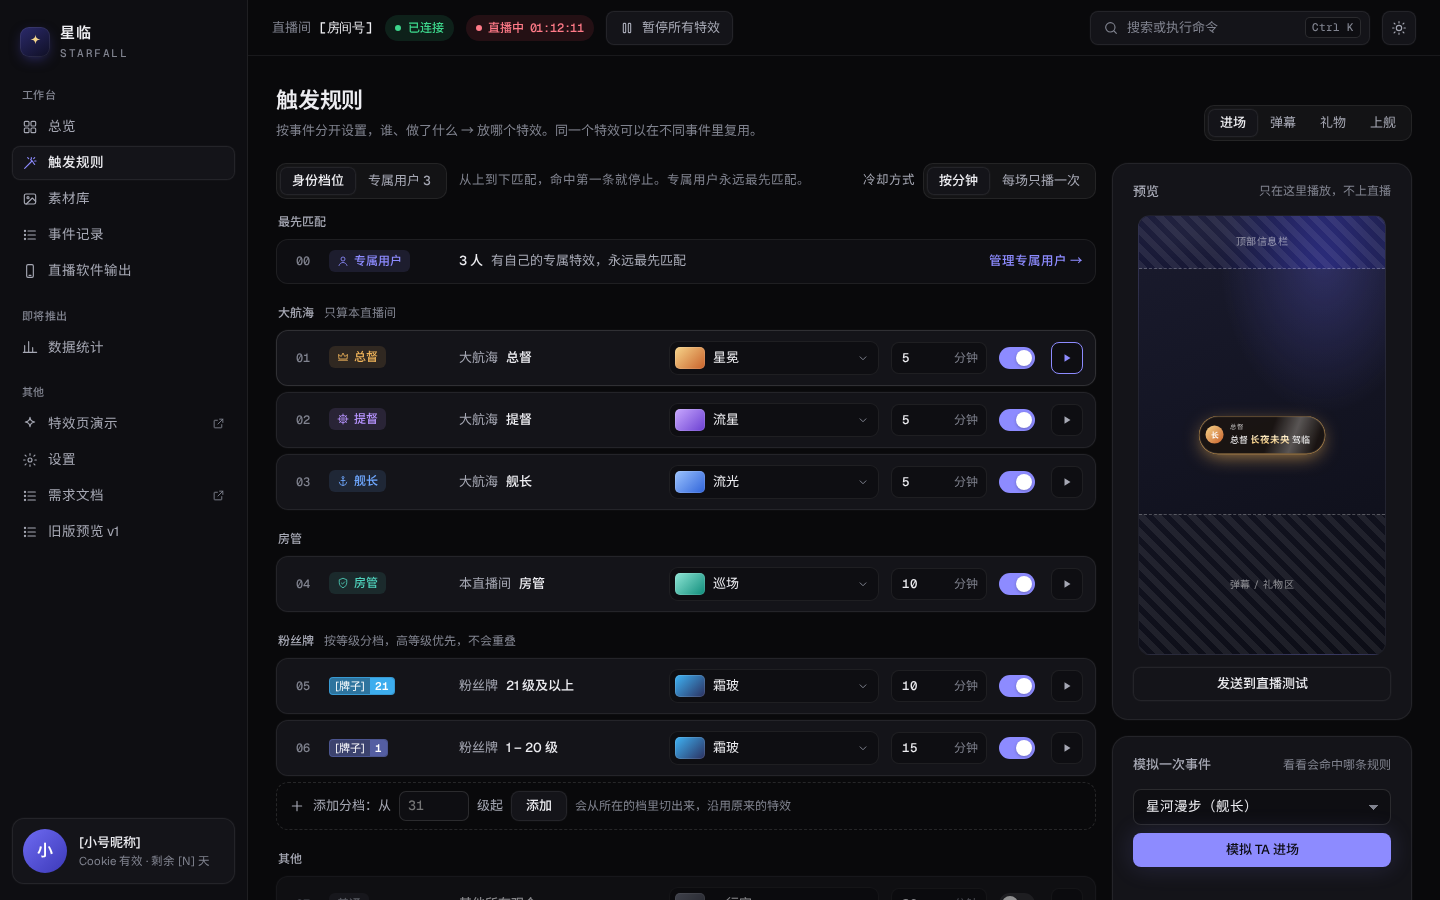
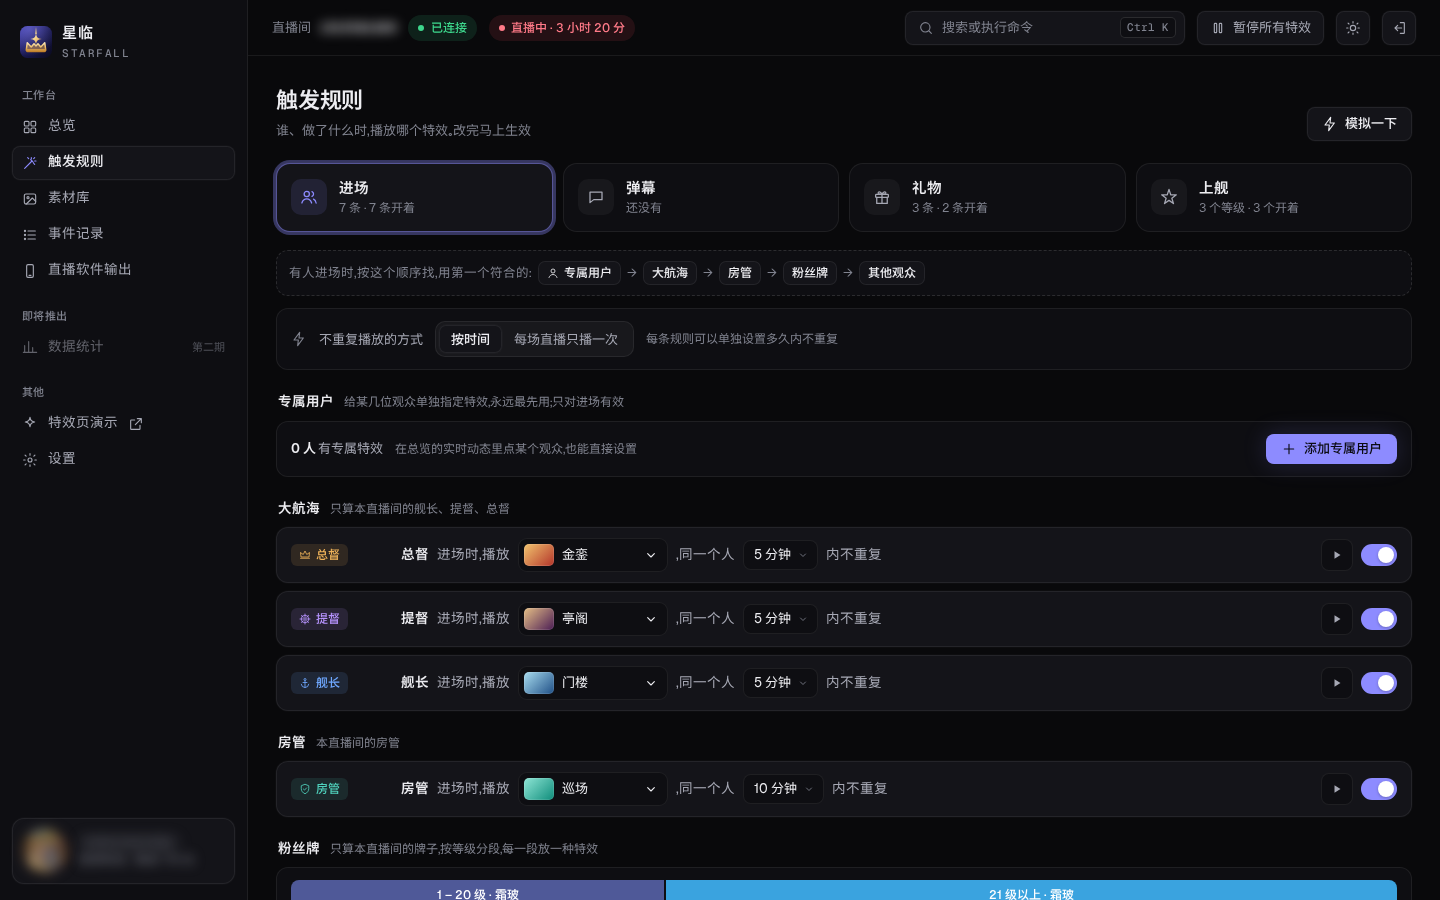
README 重写为正式版说明；截图换成真实页面（账号、主播、房间号、观众信息已模糊处理）

diff --git a/README.md b/README.md
@@ -1,161 +1,267 @@
 <div align="center">
 
-# ✦ 星临 Starfall
+<img src="design/brand/logo.svg" alt="星临" width="96" height="96">
 
-**B 站直播间互动特效工具**
+# 星临 Starfall
 
-观众进场、发弹幕、送礼物、上舰时，按你的规则在直播画面上播放动画、欢迎语和音效。
+**B 站直播间互动特效系统**
 
-![License](https://img.shields.io/badge/license-GPL--3.0-5451D6)
-![Status](https://img.shields.io/badge/%E7%8A%B6%E6%80%81-%E8%AE%BE%E8%AE%A1%E9%98%B6%E6%AE%B5-8D8BFF)
-![Platform](https://img.shields.io/badge/%E7%9B%B4%E6%92%AD%E8%BD%AF%E4%BB%B6-B%E7%AB%99%E7%9B%B4%E6%92%AD%E5%A7%AC%20%7C%20OBS-2F6FEB)
-![Canvas](https://img.shields.io/badge/%E7%94%BB%E5%B8%83-%E7%AB%96%E5%B1%8F%201080%C3%971920-0E8C7A)
+观众进场、发弹幕、送礼物、上舰时，按你设定的规则，在直播画面上播放专属的动画、欢迎语和音效。
+
+[![Version](https://img.shields.io/badge/version-1.0.0-5451D6)](CHANGELOG.md)
+[![License](https://img.shields.io/badge/license-GPL--3.0-2F6FEB)](LICENSE)
+[![Node.js](https://img.shields.io/badge/Node.js-24-3C873A)](https://nodejs.org/)
+[![直播软件](https://img.shields.io/badge/%E7%9B%B4%E6%92%AD%E8%BD%AF%E4%BB%B6-B%E7%AB%99%E7%9B%B4%E6%92%AD%E5%A7%AC%20%7C%20OBS-0E8C7A)](#使用指南)
 
 </div>
 
 <p align="center">
-  <img src="docs/images/overview-dark.png" alt="管理后台 · 总览（暗色）" width="100%">
+  <img src="docs/images/overview-dark.png" alt="管理后台 · 总览" width="100%">
 </p>
 
-> **当前阶段**：P0 技术验证已完成，正在进行 **P1 进场特效最小可用**。**还没有可用的正式版本。**
-> 下面的截图来自界面设计预览，数据为示例。
+<p align="center"><sub>截图中的账号、主播、房间号、直播标题和观众信息均已做模糊处理。</sub></p>
 
 ---
 
-## 它能做什么
+## 目录
 
-| 事件 | 可以这样设置 |
+- [简介](#简介)
+- [功能特性](#功能特性)
+- [界面预览](#界面预览)
+- [工作原理](#工作原理)
+- [快速开始](#快速开始)
+- [配置](#配置)
+- [使用指南](#使用指南)
+- [数据、备份与安全](#数据备份与安全)
+- [开发](#开发)
+- [路线图](#路线图)
+- [声明](#声明)
+- [开源协议](#开源协议)
+
+---
+
+## 简介
+
+星临是一套部署在服务器上的直播特效系统，由三部分组成：
+
+| 组成 | 作用 |
 |---|---|
-| **进场** | 总督、提督、舰长、房管、粉丝牌等级分档各放不同的素材；给指定的人设**专属素材**（可设有效期，比如生日当天）；支持"每场直播每人只播一次" |
-| **弹幕** | 有人发"生日快乐"就放烟花；可限定发送人（比如只认粉丝牌 ≥ 10 级），带全局冷却和每人冷却，防刷屏 |
-| **礼物** | 指定礼物对应指定素材；按单次价值（数量 × 单价）分档；连击自动合并，显示 ×N |
-| **上舰** | 开通、续费分别设置，欢迎语里显示月数 |
+| **星临服务** | 连接 B 站直播间，实时接收进场、弹幕、礼物、上舰消息，按规则决定播放什么 |
+| **特效页** | 作为浏览器源放进 B 站直播姬或 OBS，在直播画面上播放特效 |
+| **管理后台** | 在浏览器里设置规则、管理素材、查看实时动态和播放队列，电脑和手机都能用 |
 
-- **上传即用**：把透明 WebM、GIF、PNG、SVGA、Lottie 拖进素材库，它就是一个可以直接选用的特效。
-- **竖屏优先**：默认 1080×1920，自动避开 B站 App 的顶部信息栏和底部弹幕区。
-- **直播姬和 OBS 都支持**：作为浏览器源放进直播软件即可，附带兼容性自检页和声音测试页。
-- **直播时放心用**：一键暂停所有特效（`Ctrl + Shift + P`）、清空队列；未开播时默认不播；黑名单；每一次触发都有记录，能查到"为什么没播"。
-- **手机也能管**：管理后台适配手机，直播中可以随时调整。
+星临面向以竖屏直播为主的主播，默认画布为 1080×1920，并自动避开 B 站 App 的顶部信息栏和底部弹幕区；同时支持横屏画布。
 
----
+## 功能特性
+
+### 触发规则
+
+- **进场**：按身份区分——专属用户 → 大航海（总督 / 提督 / 舰长）→ 房管 → 粉丝牌（按等级分段）→ 其他观众，使用第一条符合的规则；可设置同一观众多久内不重复，或每场直播只播一次。
+- **弹幕**：关键词触发（包含 / 完全一致），可限定发送人（所有人、本房间粉丝牌、大航海、房管），分别设置全场与每人的冷却时间。
+- **礼物**：指定礼物优先匹配（按礼物编号区分同名礼物），其余按单次总价值分段；免费礼物不触发；连击自动合并为一次，并显示总数量。
+- **上舰**：开通与续费可共用或分别设置特效；同一次上舰只播放一次；欢迎语可显示「上舰 / 续费」与月数。
+
+### 播放控制
+
+- 统一播放队列，优先级为 **上舰 → 礼物 → 进场 → 弹幕**；上舰和 100 元以上的礼物可插队。
+- 队列上限可调，可跳过当前、移出单条或清空；**紧急暂停**（`Ctrl + Shift + P`）立即停止所有特效。
+- 黑名单；主播本人与连接用的账号不触发；未开播时默认不播放，也可开启排练模式。
+
+### 特效与素材
+
+- 内置素材开箱即用，包括大航海东方宫廷系列「门楼 · 亭阁 · 金銮」。
+- 支持上传透明 WebM、MP4、PNG / GIF / WebP、SVGA、Lottie，并可搭配音效；自动检测视频的透明通道与时长。
+- 欢迎语支持变量（昵称、身份、粉丝牌、礼物、数量、价值、月数等），可按事件分别撰写。
+- 支持多个输出（例如竖屏直播与横屏录播各一份地址），附带兼容性自检页、声音测试页和演示页。
+
+### 管理后台
+
+- **总览**：正在监控的直播间（封面、主播、标题、分区、开播时间与时长）；本场 / 今天的进场人数、触发次数与身份构成；B 站看过人数、高能榜、点赞与粉丝数；实时动态与播放队列。
+- **触发规则**：每条规则以一句话呈现，冷却时间点选即可；粉丝牌等级条、礼物价值刻度条一目了然；预览小窗使用真实特效页播放；「模拟一下」可验证会命中哪条规则。
+- **事件记录**：每个事件命中了哪条规则、是否播放、未播放的原因。
+- 新手引导、命令面板（`Ctrl + K`）、亮色 / 暗色主题、手机布局；配置导出 / 导入，每日自动备份。
+- 数据按直播间分别统计，切换直播间后自动显示对应的数据。
 
 ## 界面预览
 
 <table>
   <tr>
-    <td width="50%"><img src="docs/images/rules.png" alt="触发规则"><br><sub><b>触发规则</b>：按事件分标签，身份档位固定排序、分档不重叠；右侧可以模拟一次事件，看会命中哪条规则</sub></td>
-    <td width="50%"><img src="docs/images/assets.png" alt="素材库"><br><sub><b>素材库</b>：上传的文件就是素材，悬停预览；没有透明通道的文件会提醒</sub></td>
+    <td width="50%"><img src="docs/images/rules.png" alt="触发规则 · 进场"><br><sub><b>触发规则 · 进场</b>：每条规则一句话，匹配顺序清晰可见</sub></td>
+    <td width="50%"><img src="docs/images/rules-gift.png" alt="触发规则 · 礼物"><br><sub><b>触发规则 · 礼物</b>：指定礼物与价值刻度条</sub></td>
   </tr>
   <tr>
-    <td width="50%"><img src="docs/images/editor.png" alt="素材设置"><br><sub><b>素材设置</b>：画面、欢迎语（可按事件分别写）、音效、位置与时长</sub></td>
-    <td width="50%"><img src="docs/images/overview-light.png" alt="亮色模式"><br><sub><b>亮色模式</b>：默认跟随系统，也可以手动切换</sub></td>
+    <td width="50%"><img src="docs/images/overview-light.png" alt="亮色主题"><br><sub><b>亮色主题</b>：默认跟随系统，可手动切换</sub></td>
+    <td width="50%"><img src="docs/images/output.png" alt="直播软件输出"><br><sub><b>直播软件输出</b>：画布方向、分辨率、安全区与实时预览</sub></td>
+  </tr>
+  <tr>
+    <td width="50%"><img src="docs/images/login.jpg" alt="登录页"><br><sub><b>登录页</b></sub></td>
+    <td width="50%" align="center"><img src="docs/images/mobile.png" alt="手机布局" width="48%"><br><sub><b>手机布局</b>：直播中随时暂停特效、调整规则</sub></td>
   </tr>
 </table>
 
 <p align="center">
-  <img src="docs/images/overlay-captain.png" alt="舰长进场特效" width="32%">
-  &nbsp;
-  <img src="docs/images/overlay-governor.png" alt="总督进场特效" width="32%">
+  <img src="docs/images/effect-cap.png" alt="舰长 · 门楼" width="32%">
+  <img src="docs/images/effect-adm.png" alt="提督 · 亭阁" width="32%">
+  <img src="docs/images/effect-gov.png" alt="总督 · 金銮" width="32%">
   <br>
-  <sub>竖屏特效页：舰长进场（左）、总督进场（右）。斜线区域是安全区，只在预览中显示</sub>
+  <sub>大航海进场特效：舰长 · 门楼（4 秒）、提督 · 亭阁（6 秒）、总督 · 金銮（8 秒）</sub>
 </p>
-
----
 
 ## 工作原理
 
 ```mermaid
 flowchart LR
-    A[B站直播间] -- WebSocket --> B[星临服务]
+    A[B 站直播间] -- 弹幕连接 --> B[星临服务]
     B --> C{触发规则}
     C --> D[播放队列]
-    D -- 实时推送 --> E[特效页<br/>浏览器源]
-    E --> F[B站直播姬 / OBS]
+    D -- WebSocket --> E[特效页<br/>浏览器源]
+    E --> F[B 站直播姬 / OBS]
     F -- 推流 --> G[观众]
-    H[管理后台] -. 配置规则、素材 .-> B
+    H[管理后台] -. 规则、素材、控制 .-> B
 ```
 
-1. 星临用一个 B 站**小号**连接你的直播间，实时接收进场、弹幕、礼物、上舰消息。
-2. 按你设定的规则判断要不要播、播哪个素材，放进播放队列（上舰 > 礼物 > 进场 > 弹幕）。
-3. 特效页作为**浏览器源**放在直播软件的最上层，收到指令后播放动画和音效。
+1. 星临服务使用一个 B 站账号（建议使用小号）连接直播间，接收进场、弹幕、礼物、上舰等消息；默认只在开播时连接。
+2. 每个事件按规则判断是否播放、播放哪个特效，并记录结果；需要播放的进入统一的播放队列。
+3. 特效页作为浏览器源置于直播软件的最上层，由服务端统一调度，逐个播放动画与音效。
 
-先以网页服务的形式运行在服务器上；之后会封装成 **Windows 客户端**，界面完全一致，直接在主播电脑上运行。
+## 快速开始
 
----
+### 环境要求
 
-## 开发进度
-
-- [x] 需求整理（[需求文档](docs/requirements.md)）
-- [x] 仓库与开发约定（[分支、提交与回退](docs/development.md)）
-- [x] 界面设计预览
-- [x] OBS 兼容性与声音实测
-- [x] 方案设计（[技术栈、架构、数据模型、接口](docs/architecture.md)）
-- [x] **P0** 技术验证（[验证报告](docs/p0-report.md)）
-- [ ] **P1 · v0.1.0** 进场特效最小可用
-- [ ] **P2 · v0.2.0** 弹幕、礼物、上舰
-- [ ] **P3 · v0.3.0** 后台完整体验
-- [ ] **P4 · v1.0.0** 打磨，第一期正式版
-- [ ] Windows 客户端
-- [ ] 第二期：SC / 关注 / 点赞触发、礼物统计、直播数据、观众档案
-
----
-
-## 技术栈（规划）
-
-| 部分 | 选型 |
+| 项目 | 要求 |
 |---|---|
-| 语言与结构 | TypeScript 6，pnpm monorepo；服务端由 Node 24 直接运行 TS |
-| 后端 | Node.js 24、Fastify、WebSocket、SQLite（better-sqlite3 + Drizzle） |
-| 管理后台 | Vue 3、Vite、Pinia、Naive UI |
-| 特效页 | Vite、GSAP、Lottie、PixiJS、透明 WebM，SVGA 可选 |
-| Windows 版 | Electron + electron-builder |
+| 操作系统 | Linux 服务器（已在 Debian 12 上验证） |
+| Node.js | 24 或更高 |
+| pnpm | 通过 Corepack 启用，版本由 `package.json` 指定 |
+| ffmpeg | 推荐安装，用于检测上传视频的透明通道和时长 |
+| 内存 | 512 MB 以上 |
+| 网络 | 能访问 B 站；开放一个端口供直播软件和浏览器访问（默认 17520） |
 
----
+### 安装与启动
 
-## 目录结构
-
+```bash
+git clone https://github.com/chrismaxluo/starfall.git /opt/starfall
+cd /opt/starfall
+corepack enable
+pnpm install
+pnpm build                       # 构建管理后台和特效页
+pnpm --filter @starfall/server start
 ```
-packages/shared/    公共定义：常量、类型、消息格式
-packages/core/      纯逻辑：规则匹配、冷却、播放队列
-packages/bili/      B 站协议：登录、房间、WebSocket、消息解析
-apps/server/        星临服务（Fastify）
-apps/admin/         管理后台（Vue 3）
-apps/overlay/       特效页（浏览器源）
-docs/               需求文档、方案设计、协议笔记、开发约定
-spike/              技术验证用的脚本（抓包、扫码登录）
-design/             界面设计预览
+
+首次启动会生成管理后台的初始密码，显示在日志中，同时写入 `data/initial-password.txt`。登录后请在「设置」中修改密码，修改后该文件会自动删除。
+
+在浏览器中打开 `http://<服务器地址>:17520/`，登录后按新手引导完成设置。
+
+### 作为系统服务运行
+
+仓库提供了 systemd 服务文件，支持开机自启和崩溃后自动重启：
+
+```bash
+cp deploy/starfall.service /etc/systemd/system/
+systemctl daemon-reload
+systemctl enable --now starfall
+journalctl -u starfall -f        # 查看日志
 ```
+
+如果安装目录不是 `/opt/starfall`，请先修改服务文件中的 `WorkingDirectory` 与 `STARFALL_DATA`。
+
+### 更新
+
+```bash
+cd /opt/starfall
+git pull
+pnpm install
+pnpm build
+systemctl restart starfall
+```
+
+只修改了管理后台页面时，构建后即可生效，无需重启服务；服务端有改动时需要重启，重启期间特效会中断数秒，特效页会自动重新连接。
+
+## 配置
+
+所有配置均通过环境变量设置：
+
+| 环境变量 | 默认值 | 说明 |
+|---|---|---|
+| `STARFALL_PORT` | `17520` | 服务端口 |
+| `STARFALL_HOST` | `0.0.0.0` | 监听地址 |
+| `STARFALL_DATA` | `./data` | 数据目录：数据库、素材文件、加密密钥、备份 |
+| `STARFALL_TZ` | `Asia/Shanghai` | 主播所在时区，用于「今天」的统计和专属用户的有效期 |
+
+其余设置（连接时机、未开播时的处理、排队上限、黑名单、事件保留天数、自动备份等）都在管理后台的「设置」中完成。
+
+## 使用指南
+
+1. **登录 B 站账号**：在「设置」中用 B 站 App 扫码登录。星临只用它读取直播间消息，不会发送弹幕，建议使用小号。
+2. **设置直播间**：填写房间号（短号或长号均可）。
+3. **接入直播软件**：在「直播软件输出」中选择 B 站直播姬或 OBS，复制特效页地址，添加为浏览器源，宽高与画布保持一致（竖屏默认 1080×1920）。可以先打开自检页和声音测试页确认环境。
+4. **设置触发规则**：在「触发规则」中为进场、弹幕、礼物、上舰分别选择特效，点 ▶ 预览效果，或用「模拟一下」验证规则。
+5. **上传自己的素材**（可选）：在「素材库」上传动画和音效，推荐使用带透明通道的 WebM。
+6. **直播中**：在总览中查看实时动态和播放队列；出现意外时按 `Ctrl + Shift + P` 暂停所有特效。
+
+## 数据、备份与安全
+
+- **数据位置**：所有运行数据保存在 `STARFALL_DATA` 目录，包括 SQLite 数据库、素材文件、加密密钥和备份，不会写入代码目录。
+- **备份**：默认每天自动备份数据库和配置，保留 7 天；也可以在「设置」中随时导出配置（可包含素材文件），在另一台机器上导入。
+- **登录信息**：B 站登录信息使用本机生成的密钥加密保存；默认只在开播时连接直播间。
+- **特效页地址**：地址中带有密钥，请勿公开；泄露后可在「直播软件输出」中重置。
+- **后台密码**：忘记密码时，在服务器上运行 `pnpm reset-password` 生成新密码。
+- **公网访问**：如需通过公网访问管理后台，建议在前面配置 HTTPS 反向代理。
 
 ## 开发
 
-需要 Node.js 24 和 pnpm（`corepack enable` 后自动使用 `package.json` 里指定的版本）。
-
 ```bash
-pnpm install        # 安装依赖
-pnpm dev            # 启动服务（默认端口 17520，改完代码自动重启）
-pnpm check          # 类型检查 + 代码检查 + 测试
-pnpm build          # 构建管理后台和特效页
+pnpm install
+pnpm dev             # 启动服务（端口 17520，修改代码后自动重启）
+pnpm check           # 类型检查 + 代码检查 + 测试
+pnpm build           # 构建管理后台和特效页
 ```
 
-## 本地查看设计预览
+### 技术栈
 
-```bash
-python3 design/tools/fetch_fonts.py                        # 首次：下载字体（约 5 MB）
-python3 -m http.server 8080 --directory design/preview     # 然后打开 http://localhost:8080/
+| 部分 | 技术 |
+|---|---|
+| 语言与结构 | TypeScript，pnpm monorepo；服务端由 Node.js 24 直接运行 TypeScript |
+| 服务端 | Fastify、WebSocket、SQLite（better-sqlite3 + Drizzle ORM）、Zod、protobufjs |
+| 管理后台 | Vue 3、Vite |
+| 特效页 | TypeScript、Vite；CSS / SVG 动画，lottie-web、svgaplayerweb |
+| 测试 | Vitest |
+
+### 目录结构
+
+```
+apps/server/        星临服务：接口、实时连接、规则判断、播放队列
+apps/admin/         管理后台
+apps/overlay/       特效页（浏览器源）
+packages/shared/    公共定义：类型、常量、消息格式
+packages/core/      纯逻辑：规则匹配、冷却、合并、播放队列
+packages/bili/      B 站协议：登录、直播间接口、弹幕连接、消息解析
+deploy/             systemd 服务文件
+design/             品牌资源与设计预览
+docs/               需求、方案设计、协议笔记、开发约定
+fixtures/           测试样本（已脱敏）
 ```
 
-修改需求文档后，重新生成网页版：
+### 文档
 
-```bash
-python3 -m venv .venv && .venv/bin/pip install markdown
-.venv/bin/python design/tools/md2html.py
-```
+| 文档 | 内容 |
+|---|---|
+| [需求文档](docs/requirements.md) | 功能需求与验收场景 |
+| [方案设计](docs/architecture.md) | 技术选型、架构、数据模型、接口 |
+| [B 站协议笔记](docs/bili-protocol.md) | 直播消息格式与字段说明 |
+| [开发约定](docs/development.md) | 分支、提交、标签与回退 |
+| [更新记录](CHANGELOG.md) | 各版本的变化 |
 
----
+## 路线图
+
+- [x] v1.0.0：进场、弹幕、礼物、上舰特效，完整的管理后台，服务器部署
+- [ ] 特效全面换为东方宫廷风格（礼物、粉丝牌、房管、弹幕回应等）
+- [ ] Windows 客户端：在主播电脑上直接运行，界面与服务器版一致
+- [ ] 第二期：醒目留言、关注、点赞触发，礼物与直播数据统计，观众档案
 
 ## 声明
 
-星临是**非官方**的第三方工具，与哔哩哔哩（bilibili）没有任何关联。它通过 B 站网页端公开的直播消息接口读取直播间事件，接口随时可能变化；使用时请遵守 B 站的用户协议，**建议使用小号登录**，由此产生的账号风险由使用者自行承担。
+星临是**非官方**的第三方工具，与哔哩哔哩（bilibili）没有任何关联。它通过 B 站网页端的直播消息接口读取直播间事件，接口可能随时变化。请遵守 B 站用户协议，建议使用小号登录，由此产生的账号风险由使用者自行承担。
 
 B 站的官方图标、礼物图片等素材版权归哔哩哔哩所有，本项目不内置这些素材，仅在运行时从 B 站加载。
 
@@ -163,6 +269,6 @@ B 站的官方图标、礼物图片等素材版权归哔哩哔哩所有，本项
 
 [GPL-3.0](LICENSE) © 2026 chrismaxluo
 
-你可以自由使用、修改和再发布本项目；基于本项目修改后发布的作品，也必须以 GPL-3.0 开源。
+你可以自由使用、修改和再发布本项目；基于本项目修改后发布的作品，也必须以 GPL-3.0 协议开源。
 
-设计预览中使用的字体：[Geist](https://github.com/vercel/geist-font)、[Noto Sans SC](https://github.com/notofonts/noto-cjk)（均为 SIL Open Font License 1.1）。
+字体：[Geist](https://github.com/vercel/geist-font)、[Noto Sans SC](https://github.com/notofonts/noto-cjk)、[Noto Serif SC](https://github.com/notofonts/noto-cjk)（均为 SIL Open Font License 1.1）。
